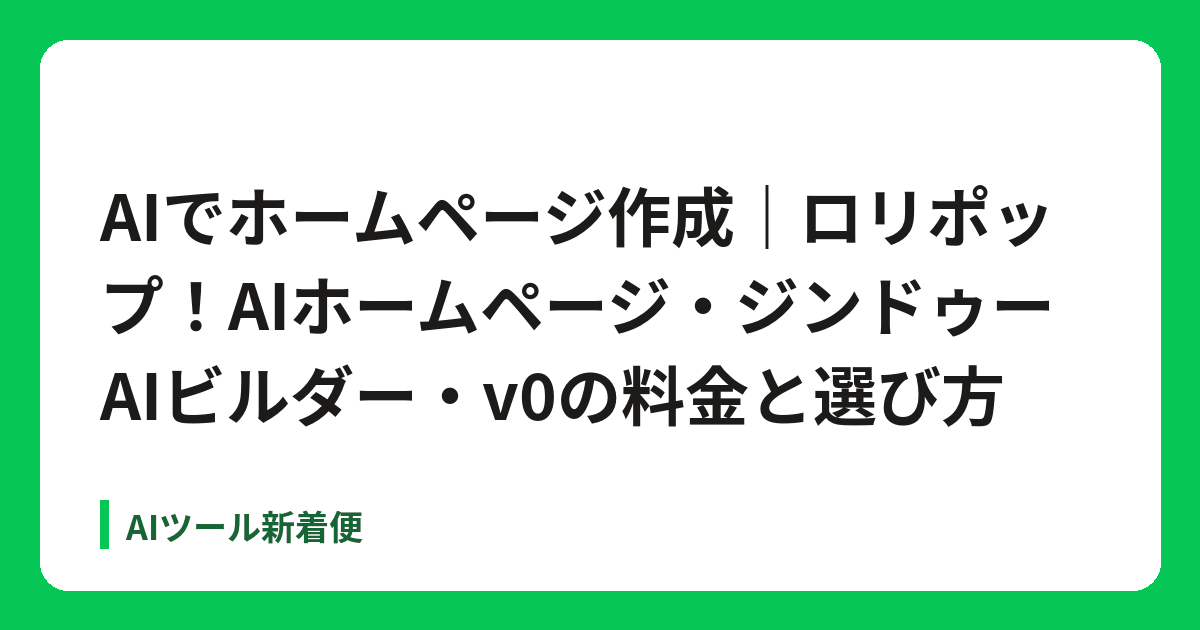
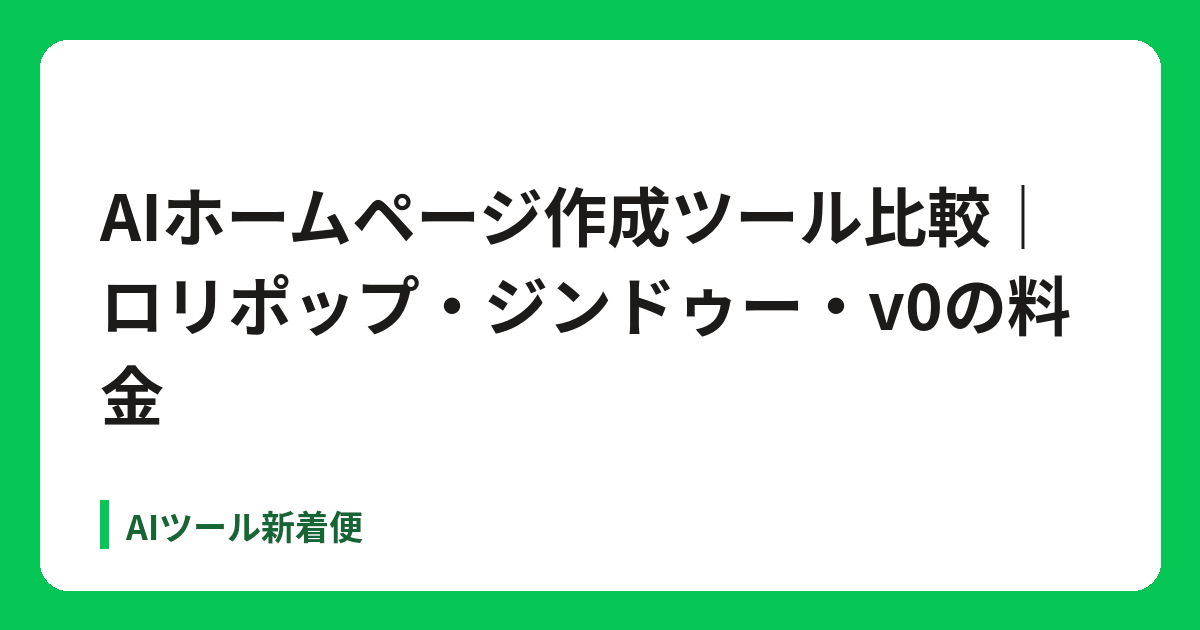
add 4 articles (fliki, withteam, rakurin, ai-blogkun), titles, internal links

diff --git a/data/articles.js b/data/articles.js
@@ -2,7 +2,11 @@ const N='https://notta.cello.so/poV7STKwa5L';
 const cta=`<p><a class="cta" href="${N}" rel="sponsored nofollow noopener" target="_blank">Nottaを無料で試す</a><span class="pr">PR</span></p><p class="muted">上のボタンはアフィリエイトリンク（PR）です。Nottaのフリープランはクレジットカード登録不要です（公式料金ページより）。</p>`;
 const note=`<p class="muted">更新日：2026年10月20日。料金・機能は2026年10月20日に各公式サイトで確認し直した内容です（初回の確認は2026年10月16日）。変更されることがあるため、申し込み前に必ず公式サイトをご確認ください。「未確認」は公式サイトで確認できなかった項目です。</p>`;
 const note2=`<p class="muted">更新日：2026年10月20日。料金・機能は2026年10月16〜20日に各公式サイトで確認した内容です（当サイトの各ツールページの「情報確認日」も参照）。変更されることがあるため、申し込み前に必ず公式サイトをご確認ください。「未確認」は公式サイトで確認できなかった項目です。</p>`;
-module.exports=[{"slug":"tldv-tsukaikata-ryoukin","date":"2026-10-21","updated":"2026-10-21","tools":["tldv","notta"],"title":"tl;dv 使い方・料金（2026年10月版）｜無料プランでできること","desc":"会議AI「tl;dv」の料金（無料・プロ・ビジネス）、無料プランでできること、Zoom・Google Meet・Teamsでの使い方の流れを公式サイトの情報だけでまとめました。","body":"<h1>tl;dv 使い方・料金（2026年10月版）</h1><p class=\"muted\">公開日：2026年10月21日。料金・機能は2026年10月20〜21日に公式サイトで確認した内容です。変わることがあるため、申し込み前に公式サイトをご確認ください。「未確認」は公式サイトで確かめられなかった項目です。</p>\n<p>tl;dv（ティーエルディーブイ）は、Zoom・Google Meet・Microsoft Teamsや対面の会議を録画・文字起こしし、要約やタスクをAIで作る会議AIです。日本語の文字起こしと日本語サポートがあると公式に書かれています。基本情報は<a href=\"../../tools/tldv/\">tl;dvのツールページ</a>にもまとめています。</p>\n<p><a class=\"cta\" href=\"https://tldv.cello.so/hWETXPHvSAc\" rel=\"sponsored nofollow noopener\" target=\"_blank\">tl;dvを無料で試す</a><span class=\"pr\">PR</span></p><p class=\"muted\">このリンクはアフィリエイト（広告）です。</p>\n<h2>料金プラン</h2><table><tr><th>プラン</th><td><b>料金</b>／<b>主な内容</b></td></tr>\n<tr><th>無料</th><td>0円／録画・文字起こしは回数無制限、AIメモは10会議分、「AIに尋ねる」は10回分まで。クレジットカード不要</td></tr>\n<tr><th>プロ</th><td>¥36,960/年（1シート・年払い）。ユーロ表示では月払い €29/月、年払い €216/年（月あたり€18）</td></tr>\n<tr><th>ビジネス</th><td>¥59,760/年（1シート・年払い）。ユーロ表示では月払い €39/月、年払い €348/年（月あたり€29）</td></tr>\n<tr><th>エンタープライズ</th><td>要問い合わせ</td></tr></table>\n<ul><li>月払いの円建て料金は未確認です。</li><li>各プランの細かい機能の違い（連携できるCRMの範囲など）は、公式の料金ページでご確認ください。</li></ul>\n<h2>無料プランでできること</h2><ul><li>会議の録画と文字起こしは回数無制限です。</li><li>AIメモ（要約）は10会議分、「AIに尋ねる」は10回分までです。たくさんの会議を要約したいなら有料プランが目安です。</li><li>クレジットカードの登録なしで始められます。</li></ul>\n<h2>使い方の流れ</h2><ol><li>公式サイトから無料で登録します。</li><li>Google Meet・Zoom・Microsoft Teamsとつなぎ、会議に記録用のボットを参加させます。主催者でなくても記録できると公式に書かれています。</li><li>会議が終わると、文字起こし・要約・タスクが作られます。</li><li>大事な数字や名前は録画で確かめてから共有します。必要ならSalesforce・HubSpotなどのCRMに内容を反映できます。</li></ol>\n<h2>Nottaとどう違う？</h2><p>tl;dvはWeb会議の録画が中心です。電話や対面の録音、音声ファイルの取り込みもまとめて使いたいなら<a href=\"../notta-tsukaikata-ryoukin/\">Notta</a>も候補です（Nottaのフリーは月120分・1回3分まで）。</p>\n<h2>注意点</h2><ul><li>録画・文字起こしをするときは、参加者に事前に伝えて同意をとりましょう。</li><li>AIの文字起こしや要約には誤りが入ることがあります。</li><li>紹介リンクから登録すると30%割引という案内がありますが、適用条件は未確認です。</li></ul>\n<p><a class=\"cta\" href=\"https://tldv.cello.so/hWETXPHvSAc\" rel=\"sponsored nofollow noopener\" target=\"_blank\">tl;dvを無料で試す</a><span class=\"pr\">PR</span></p><p class=\"muted\">このリンクはアフィリエイト（広告）です。</p>\n<h2>関連</h2><p><a href=\"../../tools/tldv/\">tl;dvのツールページ</a>／<a href=\"../ai-gijiroku-tool-hikaku/\">AI議事録ツール比較</a>／<a href=\"../muryou-mojiokoshi-ai/\">無料で使える文字起こしAI</a>／<a href=\"../gijiroku-ai-jidouka/\">議事録をAIで自動化する方法</a></p>\n<h2>出典（公式）</h2><pre><code>https://tldv.io/ja/\nhttps://tldv.io/ja/pricing/\nhttps://tldv.io/app/pricing</code></pre>"},
+module.exports=[{"slug":"fliki-tsukaikata-shouyou","date":"2026-10-21","updated":"2026-10-21","tools":["fliki","elevenlabs","invideo"],"title":"Fliki 使い方・商用利用（2026年10月版）｜無料プランと料金","desc":"テキストからナレーション付き動画を作るFlikiの使い方、商用利用できるプラン、無料プランの制限（月3クレジット・720p・透かし）、料金を公式サイトの情報だけでまとめました。","body":"<h1>Fliki 使い方・商用利用（2026年10月版）</h1><p class=\"muted\">公開日：2026年10月21日。料金・機能は2026年10月20〜21日に公式サイトで確認した内容です。変わることがあるため、申し込み前に公式サイトをご確認ください。「未確認」は公式サイトで確かめられなかった項目です。</p>\n<p>Fliki（フリキ）は、台本・ブログ記事・アイデア・PPTから、AIナレーション付きの動画を作れるツールです。公式では80以上の言語、2,000以上のAI音声と書かれていて、音声の言語に日本語も含まれます。管理画面の日本語表示は未確認です。</p>\n<p><a class=\"cta\" href=\"https://fliki.ai/?via=marui\" rel=\"sponsored nofollow noopener\" target=\"_blank\">Flikiを無料で試す</a><span class=\"pr\">PR</span></p><p class=\"muted\">このリンクはアフィリエイト（広告）です。</p>\n<h2>料金プラン</h2><table><tr><th>プラン</th><td><b>料金（USD）</b>／<b>主な内容</b></td></tr>\n<tr><th>Free</th><td>$0／月3クレジット・720p・Flikiの透かし入り。クレジットカード不要</td></tr>\n<tr><th>Standard</th><td>月払い$28/月・年払い$21/月（年$252）／月180クレジット・1080p・商用利用権</td></tr>\n<tr><th>Premium</th><td>月払い$88/月・年払い$66/月（年$792）／月600クレジット</td></tr>\n<tr><th>Enterprise</th><td>個別見積もり</td></tr></table><p>円での金額と税の扱いは未確認です（公式料金ページの米国向け表示）。</p>\n<h2>商用利用はできる？</h2><p>公式のよくある質問では、有料プラン（サブスクリプション）なら作った動画の商用ライセンスがつくと書かれています。料金表でも「Commercial rights（商用利用権）」と「No watermark（透かしなし）」は有料プランの項目です。無料プランは透かし入りで、商用利用権は料金表に入っていません。</p>\n<h2>使い方の流れ</h2><ol><li>公式サイトで無料登録します。</li><li>台本・ブログ記事のURL・アイデア・PPTなど、元になるものを選びます。</li><li>AI音声（日本語など）と映像素材を選びます。</li><li>確認して書き出します（無料は720p・透かし入り）。</li></ol>\n<h2>ほかのツールとどう違う？</h2><p>読み上げ音声だけ作りたいなら<a href=\"../elevenlabs-muryou-shouyou/\">ElevenLabsの無料版と商用利用</a>や<a href=\"../ai-yomiage-elevenlabs-voicevox/\">AI読み上げ比較</a>、プロンプトから映像そのものを作りたいなら<a href=\"../douga-seisei-ai-hikaku/\">動画生成AI比較</a>も参考にしてください。</p>\n<h2>注意点</h2><ul><li>商用利用の細かい条件は、公式の利用規約でご確認ください。</li><li>クレジットの消費量は、動画の長さや機能で変わります（詳しい計算は未確認）。</li></ul>\n<p><a class=\"cta\" href=\"https://fliki.ai/?via=marui\" rel=\"sponsored nofollow noopener\" target=\"_blank\">Flikiを無料で試す</a><span class=\"pr\">PR</span></p><p class=\"muted\">このリンクはアフィリエイト（広告）です。</p>\n<h2>関連</h2><p><a href=\"../../tools/fliki/\">Flikiのツールページ</a>／<a href=\"../douga-seisei-ai-hikaku/\">動画生成AI比較</a>／<a href=\"../elevenlabs-muryou-shouyou/\">ElevenLabs無料版の商用利用</a></p>\n<h2>出典（公式）</h2><pre><code>https://fliki.ai/\nhttps://fliki.ai/pricing</code></pre>"},
+{"slug":"withteam-mojiokoshi-hyouban","date":"2026-10-21","updated":"2026-10-21","tools":["withteam-ai-mojiokoshi","notta"],"title":"WITH TEAM AI文字起こしの評判・料金｜1分33円の従量課金","desc":"WITH TEAM AI文字起こしの料金（1分33円・最低66円・月額なし）、無料お試し、対応形式、評判の調べ方を公式サイトの情報だけでまとめました。","body":"<h1>WITH TEAM AI文字起こしの評判・料金</h1><p class=\"muted\">公開日：2026年10月21日。料金・機能は2026年10月21日に公式サイトで確認した内容です。変わることがあるため、申し込み前に公式サイトをご確認ください。「未確認」は公式サイトで確かめられなかった項目です。</p>\n<p>WITH TEAM AI文字起こしは、文字起こし会社が開発した、音源をアップロードするだけのAI自動文字起こしサービスです。月額なしの従量課金で、使った分だけ支払います。</p>\n<p><a class=\"cta\" href=\"https://af.moshimo.com/af/c/click?a_id=5855433&p_id=4456&pc_id=11583&pl_id=60038\" rel=\"sponsored nofollow noopener\" target=\"_blank\">WITH TEAM AI文字起こしを試す</a><span class=\"pr\">PR</span><img border=\"0\" width=\"1\" height=\"1\" src=\"https://i.moshimo.com/af/i/impression?a_id=5855433&p_id=4456&pc_id=11583&pl_id=60038\" alt=\"\"></p><p class=\"muted\">このリンクはアフィリエイト（広告）です。</p>\n<h2>料金</h2><table><tr><th>項目</th><td>内容</td></tr>\n<tr><th>料金</th><td>音源1分あたり30円（税込33円）</td></tr><tr><th>最低料金</th><td>66円（税込）</td></tr><tr><th>初期費用・月額</th><td>無料</td></tr><tr><th>支払い</th><td>クレジットカードのみ</td></tr><tr><th>人の手の文字起こし</th><td>別サービスで1分120円、最短中1日（土日祝除く）</td></tr></table>\n<h2>無料で試せる？</h2><p>音源の冒頭部分を無料で文字起こしできます（最大1GB／120分の音源までアップ可能）。登録は名前とメールアドレスだけです。</p>\n<h2>仕様</h2><ul><li>対応形式：wav／flac／mp4／mp3／m4a</li><li>1ファイル最大1GB・6時間（360分）まで</li><li>解析対応言語：日本語</li><li>24時間365日使え、完成したらメールで知らせてくれます。</li></ul>\n<h2>評判について</h2><p>この記事は公式サイトと公開情報だけで書いています。運営者が実際に使った体験は書いていません。公式サイトでは、音質が悪い・環境音が大きい・複数人が同時に話す・方言や早口・固有名詞が多い音源は、正確に聞き取るのが難しいと書かれています。こうした音源は、まず無料お試しで確かめるのがおすすめです。第三者の口コミは数が少なく、ここでは載せていません。</p>\n<h2>月額制のツールとどう違う？</h2><p>たまにだけ使うなら従量課金のWITH TEAMが向いています。毎週の会議を記録するなら、月額制の<a href=\"../notta-tsukaikata-ryoukin/\">Notta</a>や、ほかの<a href=\"../ai-gijiroku-tool-hikaku/\">AI議事録ツール</a>と比べてみてください。</p>\n<p><a class=\"cta\" href=\"https://af.moshimo.com/af/c/click?a_id=5855433&p_id=4456&pc_id=11583&pl_id=60038\" rel=\"sponsored nofollow noopener\" target=\"_blank\">WITH TEAM AI文字起こしを試す</a><span class=\"pr\">PR</span><img border=\"0\" width=\"1\" height=\"1\" src=\"https://i.moshimo.com/af/i/impression?a_id=5855433&p_id=4456&pc_id=11583&pl_id=60038\" alt=\"\"></p><p class=\"muted\">このリンクはアフィリエイト（広告）です。</p>\n<h2>関連</h2><p><a href=\"../../tools/withteam-ai-mojiokoshi/\">WITH TEAM AI文字起こしのツールページ</a>／<a href=\"../mojiokoshi-ai-hikaku/\">文字起こしAI比較</a>／<a href=\"../ai-gijiroku-tool-hikaku/\">AI議事録ツール比較</a></p>\n<h2>出典（公式）</h2><pre><code>https://withteam.jp/aimojiokoshi/</code></pre>"},
+{"slug":"rakurin-hyouban-ryoukin","date":"2026-10-21","updated":"2026-10-21","tools":["rakurin","ai-blogkun-gold"],"title":"ラクリンの評判・料金｜無料プランの記事数とプランの違い","desc":"AIライティングツール「ラクリン」の料金（フリー・シルバー・ゴールド・プラチナ）、無料プランの記事数、できること、評判の調べ方を公式サイトの情報だけでまとめました。","body":"<h1>ラクリンの評判・料金</h1><p class=\"muted\">公開日：2026年10月21日。料金・機能は2026年10月21日に公式サイトで確認した内容です。変わることがあるため、申し込み前に公式サイトをご確認ください。「未確認」は公式サイトで確かめられなかった項目です。</p>\n<p>ラクリン（Rakurin）は、ブログ記事の作成に特化したAIライティングツールです。タイトル・本文・パーマリンクの作成から、WordPressへの投稿（公開・予約投稿・下書き）までまとめて自動化できると公式に書かれています。</p>\n<p><a class=\"cta\" href=\"https://af.moshimo.com/af/c/click?a_id=5855437&p_id=5432&pc_id=14858&pl_id=70483\" rel=\"sponsored nofollow noopener\" target=\"_blank\">ラクリンを無料で使う</a><span class=\"pr\">PR</span><img border=\"0\" width=\"1\" height=\"1\" src=\"https://i.moshimo.com/af/i/impression?a_id=5855437&p_id=5432&pc_id=14858&pl_id=70483\" alt=\"\"></p><p class=\"muted\">このリンクはアフィリエイト（広告）です。</p>\n<h2>料金プラン（税込）</h2><table><tr><th>プラン</th><td><b>料金</b>／<b>トークン</b>／<b>記事数の目安</b></td></tr>\n<tr><th>フリー</th><td>0円/月／20,000トークン／毎月約2記事（クレカ登録不要）</td></tr>\n<tr><th>シルバー</th><td>4,980円/月／200,000トークン／毎月約20記事</td></tr>\n<tr><th>ゴールド</th><td>9,980円/月／600,000トークン／毎月約60記事</td></tr>\n<tr><th>プラチナ</th><td>29,980円/月／2,000,000トークン／毎月約200記事</td></tr></table><p>トークンは翌月に繰り越せません。記事数は公式の目安で、記事の長さで変わります。</p>\n<h2>何ができる？</h2><ul><li>キーワード調査（周辺キーワード調査など）</li><li>記事の作成（記事まるごと・必要なパートだけ）</li><li>「超ワンクリック」：キーワードから記事を作り、WordPress投稿とnote用コピーに対応。複数記事もまとめて作れます。</li></ul>\n<h2>評判について</h2><p>この記事は公式サイトと公開情報だけで書いています。運営者が実際に使った体験は書いていません。ネット上には無料枠を「約1記事」と書く記事もありますが、2026年10月21日時点の公式表記は「毎月約2記事」です。料金は古い情報が残っていることがあるので、公式サイトで確かめてください。</p>\n<h2>AIブログくんとどう違う？</h2><p>記事を自分で確かめながら作成・投稿を楽にしたいならラクリン、キーワードを決めたら投稿まで自動で任せたいなら<a href=\"../ai-blogkun-hyouban-ryoukin/\">AIブログくん</a>が候補です。詳しくは<a href=\"../ai-blog-jidouka/\">AIブログ自動化の比較</a>をご覧ください。</p>\n<h2>注意点</h2><ul><li>AIの文章には誤りが入ることがあります。公開前に事実や数字を確かめましょう。</li><li>記事を作っても、収益や検索順位が上がるとは限りません。</li></ul>\n<p><a class=\"cta\" href=\"https://af.moshimo.com/af/c/click?a_id=5855437&p_id=5432&pc_id=14858&pl_id=70483\" rel=\"sponsored nofollow noopener\" target=\"_blank\">ラクリンを無料で使う</a><span class=\"pr\">PR</span><img border=\"0\" width=\"1\" height=\"1\" src=\"https://i.moshimo.com/af/i/impression?a_id=5855437&p_id=5432&pc_id=14858&pl_id=70483\" alt=\"\"></p><p class=\"muted\">このリンクはアフィリエイト（広告）です。</p>\n<h2>関連</h2><p><a href=\"../../tools/rakurin/\">ラクリンのツールページ</a>／<a href=\"../ai-blog-jidouka/\">AIブログ自動化の比較</a>／<a href=\"../ai-writing-tool-hikaku/\">AIライティングツール比較</a>／<a href=\"../notebooklm-muryou-jougen/\">NotebookLM無料版の上限（下調べ用）</a></p>\n<h2>出典（公式）</h2><pre><code>https://rakurin.net/</code></pre>"},
+{"slug":"ai-blogkun-hyouban-ryoukin","date":"2026-10-21","updated":"2026-10-21","tools":["ai-blogkun-gold","rakurin"],"title":"AIブログくんの評判・料金｜無料3記事とLite・Starterの違い","desc":"自動ブログ作成サービス「AIブログくん」の料金（無料・Lite・Starter、年間・月間）、できること、GOLDとの違い、評判の調べ方を公式サイトの情報だけでまとめました。","body":"<h1>AIブログくんの評判・料金</h1><p class=\"muted\">公開日：2026年10月21日。料金・機能は2026年10月21日に公式サイトで確認した内容です。変わることがあるため、申し込み前に公式サイトをご確認ください。「未確認」は公式サイトで確かめられなかった項目です。</p>\n<p>AIブログくんは、キーワードを設定すると記事の作成・画像・タグの作成・WordPressへの投稿・Googleへのインデックス送信までを自動で行うサービスです（運営：株式会社リンクウェイ）。</p>\n<p><a class=\"cta\" href=\"https://af.moshimo.com/af/c/click?a_id=5855438&p_id=7624&pc_id=22031&pl_id=95151\" rel=\"sponsored nofollow noopener\" target=\"_blank\">AIブログくんGOLDを無料で試す</a><span class=\"pr\">PR</span><img border=\"0\" width=\"1\" height=\"1\" src=\"https://i.moshimo.com/af/i/impression?a_id=5855438&p_id=7624&pc_id=22031&pl_id=95151\" alt=\"\"></p><p class=\"muted\">このリンクはアフィリエイト（広告）です。</p>\n<h2>料金プラン</h2><table><tr><th>プラン</th><td><b>年間</b>／<b>月間</b>／<b>記事数</b></td></tr>\n<tr><th>無料</th><td>0円/月／0円/月／3記事</td></tr>\n<tr><th>Lite</th><td>4,900円/月／8,200円/月／月15記事まで</td></tr>\n<tr><th>Starter</th><td>9,900円/月／16,500円/月／月50記事まで</td></tr></table><p>税込・税抜の表記は未確認です。どのプランも画像・タグの作成とGoogleへの送信まで行えると書かれています。無料プランはクレジットカード不要です。</p>\n<h2>AIブログくんGOLDとの違いは？</h2><p>公式サイトには「AIブログくん」と「AIブログくんGOLD」のログインが別にあります。GOLDの料金と、通常版との機能の違いは公開ページでは未確認です。下のボタンはGOLDの提携リンクです。</p>\n<h2>評判について</h2><p>この記事は公式サイトと公開情報だけで書いています。運営者が実際に使った体験は書いていません。公式サイトには利用者の声が載っていますが、これは運営側が選んだものです。第三者の口コミを探すときは、実際に使ったかどうかが書かれているか確かめましょう。</p>\n<h2>ラクリンとどう違う？</h2><p>投稿まで自動で任せたいならAIブログくん、記事を確かめながら作りたいなら<a href=\"../rakurin-hyouban-ryoukin/\">ラクリン</a>が候補です。比較は<a href=\"../ai-blog-jidouka/\">AIブログ自動化の比較</a>にまとめています。</p>\n<h2>注意点</h2><ul><li>自動で投稿しても、収益や検索順位が上がるとは限りません。</li><li>AIの文章には誤りが入ることがあります。公開された記事も確認しましょう。</li></ul>\n<p><a class=\"cta\" href=\"https://af.moshimo.com/af/c/click?a_id=5855438&p_id=7624&pc_id=22031&pl_id=95151\" rel=\"sponsored nofollow noopener\" target=\"_blank\">AIブログくんGOLDを無料で試す</a><span class=\"pr\">PR</span><img border=\"0\" width=\"1\" height=\"1\" src=\"https://i.moshimo.com/af/i/impression?a_id=5855438&p_id=7624&pc_id=22031&pl_id=95151\" alt=\"\"></p><p class=\"muted\">このリンクはアフィリエイト（広告）です。</p>\n<h2>関連</h2><p><a href=\"../../tools/ai-blogkun-gold/\">AIブログくんGOLDのツールページ</a>／<a href=\"../ai-blog-jidouka/\">AIブログ自動化の比較</a>／<a href=\"../ai-writing-tool-hikaku/\">AIライティングツール比較</a>／<a href=\"../notebooklm-muryou-jougen/\">NotebookLM無料版の上限（下調べ用）</a></p>\n<h2>出典（公式）</h2><pre><code>https://ai-blogkun.com/</code></pre>"},
+{"slug":"tldv-tsukaikata-ryoukin","date":"2026-10-21","updated":"2026-10-21","tools":["tldv","notta"],"title":"tl;dv 使い方・料金（2026年10月版）｜無料プランでできること","desc":"会議AI「tl;dv」の料金（無料・プロ・ビジネス）、無料プランでできること、Zoom・Google Meet・Teamsでの使い方の流れを公式サイトの情報だけでまとめました。","body":"<h1>tl;dv 使い方・料金（2026年10月版）</h1><p class=\"muted\">公開日：2026年10月21日。料金・機能は2026年10月20〜21日に公式サイトで確認した内容です。変わることがあるため、申し込み前に公式サイトをご確認ください。「未確認」は公式サイトで確かめられなかった項目です。</p>\n<p>tl;dv（ティーエルディーブイ）は、Zoom・Google Meet・Microsoft Teamsや対面の会議を録画・文字起こしし、要約やタスクをAIで作る会議AIです。日本語の文字起こしと日本語サポートがあると公式に書かれています。基本情報は<a href=\"../../tools/tldv/\">tl;dvのツールページ</a>にもまとめています。</p>\n<p><a class=\"cta\" href=\"https://tldv.cello.so/hWETXPHvSAc\" rel=\"sponsored nofollow noopener\" target=\"_blank\">tl;dvを無料で試す</a><span class=\"pr\">PR</span></p><p class=\"muted\">このリンクはアフィリエイト（広告）です。</p>\n<h2>料金プラン</h2><table><tr><th>プラン</th><td><b>料金</b>／<b>主な内容</b></td></tr>\n<tr><th>無料</th><td>0円／録画・文字起こしは回数無制限、AIメモは10会議分、「AIに尋ねる」は10回分まで。クレジットカード不要</td></tr>\n<tr><th>プロ</th><td>¥36,960/年（1シート・年払い）。ユーロ表示では月払い €29/月、年払い €216/年（月あたり€18）</td></tr>\n<tr><th>ビジネス</th><td>¥59,760/年（1シート・年払い）。ユーロ表示では月払い €39/月、年払い €348/年（月あたり€29）</td></tr>\n<tr><th>エンタープライズ</th><td>要問い合わせ</td></tr></table>\n<ul><li>月払いの円建て料金は未確認です。</li><li>各プランの細かい機能の違い（連携できるCRMの範囲など）は、公式の料金ページでご確認ください。</li></ul>\n<h2>無料プランでできること</h2><ul><li>会議の録画と文字起こしは回数無制限です。</li><li>AIメモ（要約）は10会議分、「AIに尋ねる」は10回分までです。たくさんの会議を要約したいなら有料プランが目安です。</li><li>クレジットカードの登録なしで始められます。</li></ul>\n<h2>使い方の流れ</h2><ol><li>公式サイトから無料で登録します。</li><li>Google Meet・Zoom・Microsoft Teamsとつなぎ、会議に記録用のボットを参加させます。主催者でなくても記録できると公式に書かれています。</li><li>会議が終わると、文字起こし・要約・タスクが作られます。</li><li>大事な数字や名前は録画で確かめてから共有します。必要ならSalesforce・HubSpotなどのCRMに内容を反映できます。</li></ol>\n<h2>Nottaとどう違う？</h2><p>tl;dvはWeb会議の録画が中心です。電話や対面の録音、音声ファイルの取り込みもまとめて使いたいなら<a href=\"../notta-tsukaikata-ryoukin/\">Notta</a>も候補です（Nottaのフリーは月120分・1回3分まで）。</p>\n<h2>注意点</h2><ul><li>録画・文字起こしをするときは、参加者に事前に伝えて同意をとりましょう。</li><li>AIの文字起こしや要約には誤りが入ることがあります。</li><li>紹介リンクから登録すると30%割引という案内がありますが、適用条件は未確認です。</li></ul>\n<p><a class=\"cta\" href=\"https://tldv.cello.so/hWETXPHvSAc\" rel=\"sponsored nofollow noopener\" target=\"_blank\">tl;dvを無料で試す</a><span class=\"pr\">PR</span></p><p class=\"muted\">このリンクはアフィリエイト（広告）です。</p>\n<h2>関連</h2><p><a href=\"../../tools/tldv/\">tl;dvのツールページ</a>／<a href=\"../ai-gijiroku-tool-hikaku/\">AI議事録ツール比較</a>／<a href=\"../muryou-mojiokoshi-ai/\">無料で使える文字起こしAI</a>／<a href=\"../gijiroku-ai-jidouka/\">議事録をAIで自動化する方法</a></p>\n<h2>出典（公式）</h2><pre><code>https://tldv.io/ja/\nhttps://tldv.io/ja/pricing/\nhttps://tldv.io/app/pricing</code></pre>"},
 {"slug":"plaud-tsukaikata-ryoukin","date":"2026-10-21","updated":"2026-10-21","tools":["plaud","notta"],"title":"Plaud 使い方・料金（2026年10月版）｜本体価格と文字起こしプラン","desc":"AIボイスレコーダー「Plaud（プラウド）」の本体価格、無料Starterプランの月300分、Pro・Unlimitedプランの年額、使い方の流れを公式サイトの情報だけでまとめました。","body":"<h1>Plaud 使い方・料金（2026年10月版）</h1><p class=\"muted\">公開日：2026年10月21日。価格は2026年10月20〜21日に公式サイトで確認した内容です（税込）。変わることがあるため、購入前に公式サイトをご確認ください。「未確認」は公式サイトで確かめられなかった項目です。</p>\n<p>Plaud（プラウド）は、会話・通話・オンライン会議を録音し、AIが文字起こし・要約するAIボイスレコーダーです。112ヶ国語の文字起こしと話者ラベルに対応していると公式に書かれています。基本情報は<a href=\"../../tools/plaud/\">Plaudのツールページ</a>にもまとめています。</p>\n<p><a class=\"cta\" href=\"https://px.a8.net/svt/ejp?a8mat=3ZFOPI+E0A8H6+5J4W+5YZ76\" rel=\"sponsored nofollow noopener\" target=\"_blank\">Plaud公式ストアで見る</a><span class=\"pr\">PR</span><img border=\"0\" width=\"1\" height=\"1\" src=\"https://www14.a8.net/0.gif?a8mat=3ZFOPI+E0A8H6+5J4W+5YZ76\" alt=\"\"></p><p class=\"muted\">このリンクはアフィリエイト（広告）です。</p>\n<h2>本体（デバイス）の価格</h2><table><tr><th>機種</th><td><b>価格（税込）</b>／<b>公式の説明</b></td></tr>\n<tr><th>Plaud Note Pro</th><td>¥30,800／妥協したくないハイパフォーマー向け</td></tr>\n<tr><th>Plaud NotePin S</th><td>¥28,600／ハンズフリー記録が必要なユーザー向け</td></tr>\n<tr><th>Plaud Note</th><td>¥27,500／立て続けの会議や通話の多いプロ向け</td></tr>\n<tr><th>Plaud NotePin</th><td>¥27,500／気軽に身につけ、日常を記録したい方向け</td></tr></table>\n<h2>文字起こしプランの料金は？</h2><ul><li><b>Starter（無料）</b>：毎月300分の文字起こし</li><li><b>Pro</b>：毎月1,200分（年間 ¥16,800）</li><li><b>Unlimited</b>：文字起こし無制限（年間 ¥40,000）</li><li>追加の文字起こしパッケージ：600分 ¥2,000／3000分 ¥10,000／6000分 ¥15,000</li></ul><p>月払いの料金は未確認です。本体代とは別にかかります。</p>\n<h2>使い方の流れ</h2><ol><li>本体を買い、スマホのPlaudアプリとつなぎます。</li><li>会議・通話・取材などを録音します。</li><li>アプリで文字起こしと要約を作ります。要約テンプレートは10,000種類以上あると公式に書かれています。</li><li>大事な数字や名前は録音で確かめてから共有します。</li></ol>\n<h2>どの組み合わせを選ぶ？</h2><ul><li><b>月300分以内でよい</b>：本体＋Starter（無料）</li><li><b>毎月の録音が多い</b>：本体＋Pro（月1,200分）</li><li><b>時間を気にせず使いたい</b>：本体＋Unlimited</li></ul>\n<h2>アプリだけの文字起こしAIとどう違う？</h2><p>Plaudは専用の録音機を使います。スマホやパソコンだけで済ませたいなら<a href=\"../notta-tsukaikata-ryoukin/\">Notta</a>、Web会議が中心なら<a href=\"../tldv-tsukaikata-ryoukin/\">tl;dv</a>も候補です。</p>\n<h2>注意点</h2><ul><li>録音するときは、相手に事前に伝えて同意をとりましょう。</li><li>AIの文字起こしや要約には誤りが入ることがあります。</li><li>日本語のサポート窓口（support-jp@plaud.ai）があります。</li></ul>\n<p><a class=\"cta\" href=\"https://px.a8.net/svt/ejp?a8mat=3ZFOPI+E0A8H6+5J4W+5YZ76\" rel=\"sponsored nofollow noopener\" target=\"_blank\">Plaud公式ストアで見る</a><span class=\"pr\">PR</span><img border=\"0\" width=\"1\" height=\"1\" src=\"https://www14.a8.net/0.gif?a8mat=3ZFOPI+E0A8H6+5J4W+5YZ76\" alt=\"\"></p><p class=\"muted\">このリンクはアフィリエイト（広告）です。</p>\n<h2>関連</h2><p><a href=\"../../tools/plaud/\">Plaudのツールページ</a>／<a href=\"../mojiokoshi-ai-hikaku/\">文字起こしAI比較</a>／<a href=\"../ai-gijiroku-tool-hikaku/\">AI議事録ツール比較</a></p>\n<h2>出典（公式）</h2><pre><code>https://jp.plaud.ai/\nhttps://jp.plaud.ai/pages/plaud-ai-plan</code></pre>"},
 {slug:'ai-blog-jidouka',date:'2026-10-20',tools:['ai-blogkun-gold','rakurin','conoha-ai-canvas'],title:'AIブログ自動化ツール比較｜AIブログくん・ラクリン・ConoHa',desc:'AIブログくん・ラクリン（Rakurin）・ConoHa AI Canvasを、キーワード調査・記事作成・画像・WordPress投稿のどの工程まで自動でできるかで比較。料金は公式サイトで確認した内容だけを載せています。',body:`<h1>AIブログ自動化ツール比較：AIブログくん・ラクリン・ConoHa AI Canvas</h1><p class="muted">公開日：2026年10月20日。料金・機能は2026年10月20日に各公式サイトで確認した内容です。変更されることがあるため、申し込み前に必ず公式サイトをご確認ください。「未確認」は公式サイトで確認できなかった項目です。</p>
 <h2>どの工程まで自動でできる？</h2><table><tr><th>工程</th><td><b>AIブログくん</b>／<b>ラクリン</b>／<b>ConoHa AI Canvas</b></td></tr>
@@ -56,7 +60,7 @@ https://www.conoha.jp/ai/canvas/</code></pre>`},
 <h2>Felo：調べものからスライドまでまとめたい人</h2><p>AI検索のFeloの有料プランには、AIスライドやディープリサーチが含まれます。年額プランでは毎月15,000クレジットと毎日200ボーナスクレジットがあり、スライドは最大500ページ/月と書かれています。くわしくは<a href="../../tools/felo/">Feloのツールページ</a>をご覧ください。</p>
 <h2>どれを選べばいい？</h2><ul><li><b>日本語の社内資料・提案書をきれいに作りたい</b>：イルシル</li><li><b>無料で枚数を気にせず試したい・Googleスライドに書き出したい</b>：Gamma（Free）</li><li><b>調べた内容をそのままスライドにしたい</b>：Felo</li></ul>
 <h2>使うときの注意点は？</h2><ul><li>AIが作った数字やグラフは、必ず元の資料で確認してから使いましょう。</li><li>社外秘の情報を入れる前に、各社のデータの扱いを確認してください。</li><li>無料トライアルは自動で有料に切り替わる場合があります。</li></ul>
-<h2>関連</h2><p><a href="../../tools/irusiru/">イルシルのツールページ</a>／<a href="../../tools/felo/">Feloのツールページ</a>／<a href="../ai-writing-tool-hikaku/">AIライティングツール比較</a>／<a href="../chatgpt-igai-ai-hikaku/">ChatGPT以外のAIチャット比較</a></p>
+<h2>関連</h2><p><a href="../../tools/irusiru/">イルシルのツールページ</a>／<a href="../../tools/felo/">Feloのツールページ</a>／<a href="../ai-writing-tool-hikaku/">AIライティングツール比較</a>／<a href="../chatgpt-igai-ai-hikaku/">ChatGPT以外のAIチャット比較</a>／<a href="../notebooklm-muryou-jougen/">NotebookLM無料版の上限</a></p>
 <h2>出典（公式）</h2><pre><code>https://irusiru.jp/
 https://gamma.app/ja/pricing
 https://felo.ai/ja/pricing</code></pre>`},
@@ -96,7 +100,7 @@ https://tldv.io/app/pricing</code></pre>`},
 <h2>出典（公式）</h2><pre><code>https://elevenlabs.io/terms-of-use
 https://elevenlabs.io/pricing
 https://fliki.ai/pricing</code></pre>`},
-{slug:'ai-homepage-sakusei-hikaku',date:'2026-10-20',tools:['lolipop-ai-homepage','v0','conoha-ai-canvas'],title:'AIでホームページ作成｜ロリポップ！AIホームページ・ジンドゥーAIビルダー・v0の料金と選び方',desc:'AIでホームページを作れるサービスを、公式サイトで確認した料金・無料期間・日本語対応で比較。お店や個人事業向けのロリポップ！AIホームページとジンドゥーAIビルダー、開発者向けのv0の違いと選び方をまとめました。',body:`<h1>AIでホームページ作成：3つのサービスの比較</h1><p class="muted">2026年10月20日に各公式サイトで確認した内容です。料金は変わることがあるため、申し込み前に必ず公式サイトをご確認ください。「未確認」は公式サイトで確認できなかった項目です。</p><p class="muted">PR：この記事にはアフィリエイトリンク（広告）が含まれます。リンク先で申し込みがあると、運営者が紹介報酬を受け取ることがあります。掲載内容や順番は報酬で変えていません。</p>
+{slug:'ai-homepage-sakusei-hikaku',date:'2026-10-20',tools:['lolipop-ai-homepage','v0','conoha-ai-canvas'],title:'AIホームページ作成ツール比較｜ロリポップ・ジンドゥー・v0の料金',desc:'AIでホームページを作れるサービスを、公式サイトで確認した料金・無料期間・日本語対応で比較。お店や個人事業向けのロリポップ！AIホームページとジンドゥーAIビルダー、開発者向けのv0の違いと選び方をまとめました。',body:`<h1>AIでホームページ作成：3つのサービスの比較</h1><p class="muted">2026年10月20日に各公式サイトで確認した内容です。料金は変わることがあるため、申し込み前に必ず公式サイトをご確認ください。「未確認」は公式サイトで確認できなかった項目です。</p><p class="muted">PR：この記事にはアフィリエイトリンク（広告）が含まれます。リンク先で申し込みがあると、運営者が紹介報酬を受け取ることがあります。掲載内容や順番は報酬で変えていません。</p>
 <h2>比較表</h2><table><tr><th>サービス</th><td><b>料金</b>／<b>無料で試す</b>／<b>日本語</b>／<b>向いている人</b></td></tr>
 <tr><th><a href="../../tools/lolipop-ai-homepage/">ロリポップ！AIホームページ</a></th><td>1,540円（1ヵ月契約）〜660円（36ヵ月契約）／月（税込・1サイト）／10日間無料（クレジットカード不要）／日本語サービス／お店・個人事業のホームページをすぐ公開したい人</td></tr>
 <tr><th>ジンドゥー AI ビルダー</th><td>有料プランの金額は未確認（料金ページの金額表示を取得できず）／無料プランあり（公式FAQ）／日本語サービス（KDDIグループ）／質問に答えて土台を作り、無料から始めたい人</td></tr>
@@ -219,7 +223,7 @@ https://www.notta.ai/pricing</code></pre>`},
 <p>関連：<a href="../gijiroku-ai-jidouka/">会議の議事録をAIで自動化する方法</a>／<a href="../muryou-mojiokoshi-ai/">無料で使える文字起こしAI</a></p>
 <p class="muted">公式サイト：https://www.notta.ai/ ／ https://rimo.app/ ／ https://otter.ai/pricing ／ https://tldv.io/app/pricing ／ https://jp.plaud.ai/</p><p>議事録だけでなく文章作成・翻訳もまとめたい場合は<a href="../ai-writing-tool-hikaku/">AIライティングツール比較</a>（Doraverseなど）も参考にしてください。</p><p>会議の議事録づくりに絞って比べたい場合は<a href="../ai-gijiroku-tool-hikaku/">AI議事録ツール比較：tl;dv・WITH TEAM・Plaud・Notta</a>もご覧ください。</p>
 `},
-{slug:'gijiroku-ai-jidouka',date:'2026-10-16',updated:'2026-10-20',tools:['notta','rimo','tldv'],title:'会議の議事録をAIで自動化する方法｜準備から共有までの手順',desc:'AI議事録ツールで会議の記録・要約・共有を自動化する手順を、録音の同意や確認の注意点とあわせて解説します。',body:`<h1>会議の議事録をAIで自動化する方法</h1>${note}
+{slug:'gijiroku-ai-jidouka',date:'2026-10-16',updated:'2026-10-20',tools:['notta','rimo','tldv'],title:'議事録をAIで自動化する方法｜会議の準備から共有まで',desc:'AI議事録ツールで会議の記録・要約・共有を自動化する手順を、録音の同意や確認の注意点とあわせて解説します。',body:`<h1>会議の議事録をAIで自動化する方法</h1>${note}
 <h2>1. どこまで任せるか決める</h2><p>AI議事録ツールに任せられるのは、主に「録音・文字起こし」「要約」「決定事項やタスクの抜き出し」です。最終的な内容の確認は人が行う前提で考えます。AIの文字起こしや要約には誤りが入ることがあります。</p>
 <h2>2. ツールを選ぶ</h2><p>Web会議（Zoom・Teams・Google Meet）に参加して自動で記録するタイプが多く、Notta・Rimo（旧Rimo Voice）・Otterなどが対応をうたっています（NottaとRimoはWebexにも対応と記載）。違いは<a href="../mojiokoshi-ai-hikaku/">文字起こしAIツール比較</a>にまとめました。</p>
 <h2>3. 参加者の同意をとる</h2><p>録音・記録することを、会議の冒頭や招待文で参加者に伝えます。社外の人がいる会議では特に大切です。会社の情報管理ルールも確認しましょう。</p>

diff --git a/data/aio.js b/data/aio.js
@@ -47,5 +47,9 @@ faq:[['無料で使える動画生成AIはありますか？','Runway（Free・1
 h2:{'目的別の選び方':'目的別にどれを選ぶ？','使い方のコツ':'上手に使うコツは？','注意点':'使うときの注意点は？'},
 faq:[['ChatGPT以外で無料で使えるAIチャットはありますか？','Gemini（無料）、Copilot（無料版あり）、Felo、Genspark、NotebookLMなどが無料で始められます。'],['Geminiの有料プランはいくらですか？','Google AI Plus ￥725・Pro ￥2,900・Ultra ￥14,500〜（月額）です。'],['Feloの有料プランはいくらですか？','月額2,099円（年払い20,998円）です。']]},
 "tldv-tsukaikata-ryoukin":{"lead":"tl;dvはZoom・Google Meet・Teamsの会議を無料で回数無制限に録画・文字起こしでき、AIメモは10会議分まで使えます。要約をたくさん使うなら、プロ（¥36,960/年・1シート）以上が目安です。","recommend":[["tl;dv","Web会議の録画と要約をまとめて残したい人"],["Notta","電話や対面の録音、音声ファイルも文字起こししたい人"]],"h2":{"料金プラン":"tl;dvの料金はいくら？","無料プランでできること":"無料プランで何ができる？","使い方の流れ":"tl;dvの使い方は？"},"faq":[["tl;dvは無料で使えますか？","無料プランがあります。録画・文字起こしは回数無制限、AIメモは10会議分までです。クレジットカードは不要です。"],["プロプランの料金は？","¥36,960/年（1シート・年払い）です。月払いの円建て料金は未確認です。"],["日本語に対応していますか？","日本語の文字起こしと日本語サポートがあると公式に書かれています。"]]},
-"plaud-tsukaikata-ryoukin":{"lead":"Plaudは本体（税込¥27,500〜¥30,800）を買えば、無料のStarterプランで毎月300分まで文字起こしできます。それより多く使うならPro（月1,200分・年間¥16,800）かUnlimited（年間¥40,000）が目安です。","recommend":[["Plaud","対面の会議や通話を専用の録音機で記録したい人"],["Notta","スマホやパソコンだけで文字起こししたい人"],["tl;dv","Web会議の録画が中心の人"]],"h2":{"使い方の流れ":"Plaudの使い方は？"},"faq":[["Plaudは本体代のほかにお金がかかりますか？","無料のStarterプランで毎月300分まで文字起こしできます。もっと使うならProやUnlimitedの年額料金がかかります。"],["Proプランの料金は？","年間¥16,800（税込）で毎月1,200分です。月払いの料金は未確認です。"],["日本語に対応していますか？","日本語の公式サイトとサポート窓口があり、112ヶ国語の文字起こしに対応と書かれています。"]]}
+"plaud-tsukaikata-ryoukin":{"lead":"Plaudは本体（税込¥27,500〜¥30,800）を買えば、無料のStarterプランで毎月300分まで文字起こしできます。それより多く使うならPro（月1,200分・年間¥16,800）かUnlimited（年間¥40,000）が目安です。","recommend":[["Plaud","対面の会議や通話を専用の録音機で記録したい人"],["Notta","スマホやパソコンだけで文字起こししたい人"],["tl;dv","Web会議の録画が中心の人"]],"h2":{"使い方の流れ":"Plaudの使い方は？"},"faq":[["Plaudは本体代のほかにお金がかかりますか？","無料のStarterプランで毎月300分まで文字起こしできます。もっと使うならProやUnlimitedの年額料金がかかります。"],["Proプランの料金は？","年間¥16,800（税込）で毎月1,200分です。月払いの料金は未確認です。"],["日本語に対応していますか？","日本語の公式サイトとサポート窓口があり、112ヶ国語の文字起こしに対応と書かれています。"]]},
+"fliki-tsukaikata-shouyou":{"lead":"Flikiで作った動画を商用利用するなら、商用利用権がつく有料プラン（Standard 年払い$21/月〜）が必要です。無料プランは月3クレジット・720p・透かし入りです。","recommend":[["Fliki","ブログ記事や台本からナレーション付き動画を作りたい人"],["ElevenLabs","読み上げ音声だけを作りたい人"],["invideo AI","プロンプトから動画を生成したい人"]],"h2":{"料金プラン":"Flikiの料金はいくら？","使い方の流れ":"Flikiの使い方は？"},"faq":[["Flikiは無料で使えますか？","Freeプラン（$0）があります。月3クレジット・720p・Flikiの透かし入りです。"],["無料プランで商用利用できますか？","料金表では商用利用権は有料プランの項目です。無料プランには入っていません。"],["日本語の音声は使えますか？","音声の対応言語に日本語が含まれると公式に書かれています。"]]},
+"withteam-mojiokoshi-hyouban":{"lead":"WITH TEAM AI文字起こしは月額なしで音源1分33円（税込・最低66円）の従量課金です。日本語の音源をたまにだけ文字起こししたい人に向いています。","recommend":[["WITH TEAM AI文字起こし","日本語の音源をたまにだけ文字起こししたい人"],["Notta","毎週の会議を月額で記録したい人"]],"h2":{"料金":"料金はいくら？","仕様":"対応形式と上限は？"},"faq":[["無料で使えますか？","音源の冒頭部分だけ無料で文字起こしを試せます。"],["月額料金はかかりますか？","初期費用・月額利用料は無料で、1分33円（税込）の従量課金です。"],["英語の音源は使えますか？","解析対応言語は日本語と書かれています。"]]},
+"rakurin-hyouban-ryoukin":{"lead":"ラクリンはフリープラン（0円）で毎月約2記事まで使え、有料はシルバー4,980円/月（税込・約20記事）からです。記事作成とWordPress投稿をまとめて楽にしたい人に向いています。","recommend":[["ラクリン","記事を確かめながら作成とWordPress投稿をまとめて楽にしたい人"],["AIブログくん","キーワードを決めたら投稿まで自動で任せたい人"]],"h2":{"料金プラン（税込）":"ラクリンの料金はいくら？","何ができる？":"ラクリンで何ができる？"},"faq":[["ラクリンは無料で使えますか？","フリープランは0円で、毎月約2記事（20,000トークン）まで使えます。クレカ登録は不要です。"],["余ったトークンは繰り越せますか？","繰り越せません。"],["WordPressに投稿できますか？","できます。公開・予約投稿・下書きに対応しています。"]]},
+"ai-blogkun-hyouban-ryoukin":{"lead":"AIブログくんは無料で3記事まで試せ、有料はLite（年間4,900円/月・月間8,200円/月で月15記事まで）からです。キーワードを決めたら投稿まで自動で任せたい人に向いています。","recommend":[["AIブログくん","キーワードを決めたら投稿まで自動で任せたい人"],["ラクリン","記事を確かめながら作りたい人"]],"h2":{"料金プラン":"AIブログくんの料金はいくら？"},"faq":[["AIブログくんは無料で使えますか？","無料プランで3記事まで作成できます。クレジットカードは不要です。"],["Liteプランの料金は？","年間で4,900円/月、月間で8,200円/月です。税込かどうかは未確認です。"],["GOLDの料金は？","公開ページでは未確認です。"]]}
 };
